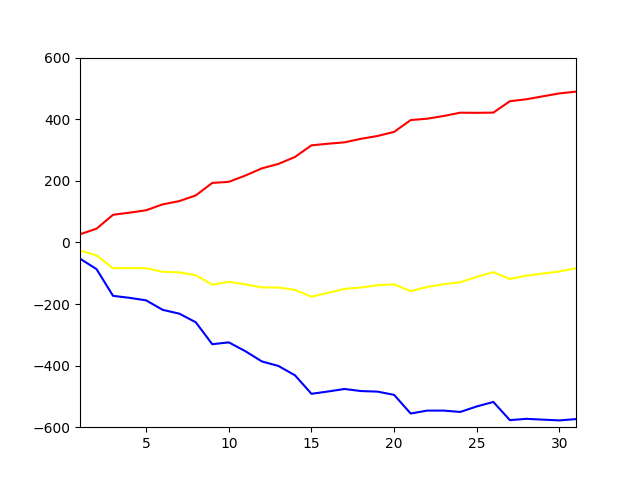
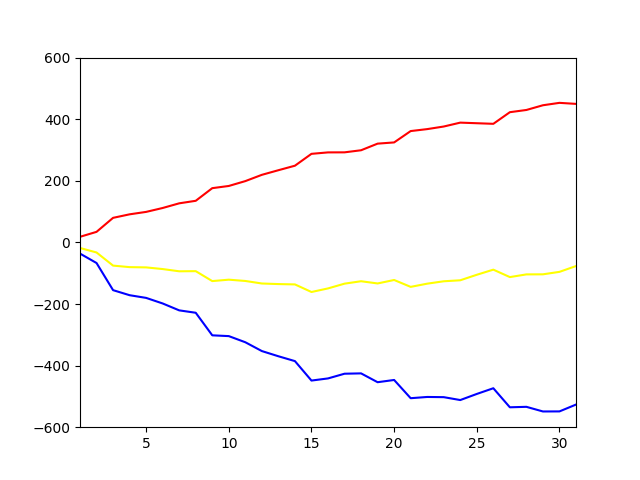
何パターンか作成

diff --git a/sim5/sim5.py b/sim5/sim5.py
@@ -1,0 +1,92 @@
+#pacerunning追加のシミュレーション
+import math
+import random
+from turtle import color
+import pandas as pd
+import matplotlib.pyplot as plt
+road=1.1
+wether=1
+day_length=31
+au=[]
+x=[]
+distance=[]
+trimp=[]
+fig=[]
+fit=[]
+par=[]
+menu=[]
+a=4
+b=7
+for i in range(day_length):
+  x.append(i+1)
+  if (i+1)==a:
+    a+=7
+    sub=random.randrange(1,3)
+    if sub==1:
+      menu.append('12km_pacerunnning')
+      au.append(3.5)
+      distance.append(12)
+    else:
+      menu.append('10km_pacerunnning')
+      au.append(4)
+      distance.append(10)
+  elif (i+1)==b:
+    b+=7    
+    sub=random.randrange(1,3)
+    if sub==1:
+      menu.append('1000m_interval×5')
+      au.append(5)
+      distance.append(5)
+    else:
+      menu.append('2000m_interval×5')
+      au.append(4.5)
+      distance.append(10)
+  elif (i==(a-7) or i==(b-7))and i!=0:
+    menu.append('OFF')
+    au.append(0)
+    distance.append(0)
+  else:
+    menu.append('jog')  
+    distance.append(random.randrange(6,20))
+    sub=random.randrange(1,3)
+    if sub==1:
+      au.append(1)
+    else:
+      au.append(1.5)
+
+for i in range(day_length):
+  trimp.append(round(au[i]*distance[i]*road*wether,3))
+
+fig.append(trimp[0]*2)
+fit.append(trimp[0])
+par.append(fit[0]-fig[0])
+for i in range(1,day_length):
+  fig.append(2*trimp[i]+fig[i-1]*math.exp(-1/15))
+  fit.append(trimp[i]+fit[i-1]*math.exp(-1/45))
+  par.append(fit[i]-fig[i])
+for i in range(day_length):  
+  fig[i]*=-1  
+
+
+'''
+print(au)
+print(distance)
+print(fit)
+print(fig)
+print(par)
+'''
+file_df=pd.DataFrame(zip(menu,au,distance,fit,fig,par),columns=['menu','au','distance','fitness','fatigue','performance'])
+figure=plt.figure()
+print(file_df)
+file_df.to_excel('./sim5.xlsx')
+plt.plot(x,fit,color='red')
+plt.plot(x,fig,color='blue')
+plt.plot(x,par,color='yellow')
+plt.xlim(1,day_length)
+plt.ylim(-800,800)
+#plt.show()
+
+figure.savefig("./sim5.png")
+
+
+

diff --git a/sim4/sim4.py b/sim4/sim4.py
@@ -1,0 +1,88 @@
+#pacerunning追加のシミュレーション
+import math
+import random
+from turtle import color
+import pandas as pd
+import matplotlib.pyplot as plt
+road=1.1
+wether=1
+day_length=31
+au=[]
+x=[]
+distance=[]
+trimp=[]
+fig=[]
+fit=[]
+par=[]
+menu=[]
+a=4
+b=7
+for i in range(day_length):
+  x.append(i+1)
+  if (i+1)==a:
+    a+=7
+    print(a)
+    sub=random.randrange(1,3)
+    if sub==1:
+      menu.append('12km_pacerunnning')
+      au.append(3.5)
+      distance.append(12)
+    else:
+      menu.append('10km_pacerunnning')
+      au.append(4)
+      distance.append(10)
+  elif (i+1)%7==0:
+    sub=random.randrange(1,3)
+    if sub==1:
+      menu.append('1000m_interval×5')
+      au.append(5)
+      distance.append(5)
+    else:
+      menu.append('2000m_interval×5')
+      au.append(4.5)
+      distance.append(10)
+  else:
+    menu.append('jog')  
+    distance.append(random.randrange(6,20))
+    sub=random.randrange(1,3)
+    if sub==1:
+      au.append(1)
+    else:
+      au.append(1.5)
+
+for i in range(day_length):
+  trimp.append(round(au[i]*distance[i]*road*wether,3))
+
+fig.append(trimp[0]*2)
+fit.append(trimp[0])
+par.append(fit[0]-fig[0])
+for i in range(1,day_length):
+  fig.append(2*trimp[i]+fig[i-1]*math.exp(-1/15))
+  fit.append(trimp[i]+fit[i-1]*math.exp(-1/45))
+  par.append(fit[i]-fig[i])
+for i in range(day_length):  
+  fig[i]*=-1  
+
+
+'''
+print(au)
+print(distance)
+print(fit)
+print(fig)
+print(par)
+'''
+file_df=pd.DataFrame(zip(menu,au,distance,fit,fig,par),columns=['menu','au','distance','fitness','fatigue','performance'])
+figure=plt.figure()
+print(file_df)
+file_df.to_excel('./sim4.xlsx')
+plt.plot(x,fit,color='red')
+plt.plot(x,fig,color='blue')
+plt.plot(x,par,color='yellow')
+plt.xlim(1,day_length)
+plt.ylim(-800,800)
+#plt.show()
+
+figure.savefig("./sim4.png")
+
+
+

diff --git a/sim3/sim3.py b/sim3/sim3.py
@@ -1,0 +1,85 @@
+#pacerunning追加のシミュレーション
+import math
+import random
+from turtle import color
+import pandas as pd
+import matplotlib.pyplot as plt
+road=1.1
+wether=1
+day_length=31
+au=[]
+x=[]
+distance=[]
+trimp=[]
+fig=[]
+fit=[]
+par=[]
+menu=[]
+
+for i in range(day_length):
+  x.append(i+1)
+  if (i+1)%3==0 and (i+1)%6!=0:
+    sub=random.randrange(1,3)
+    if sub==1:
+      menu.append('12km_pacerunnning')
+      au.append(3.5)
+      distance.append(12)
+    else:
+      menu.append('10km_pacerunnning')
+      au.append(4)
+      distance.append(10)
+  elif (i+1)%6==0:
+    sub=random.randrange(1,3)
+    if sub==1:
+      menu.append('1000m_interval×5')
+      au.append(5)
+      distance.append(5)
+    else:
+      menu.append('2000m_interval×3')
+      au.append(4.5)
+      distance.append(10)
+  else:
+    menu.append('jog')  
+    distance.append(random.randrange(6,20))
+    sub=random.randrange(1,3)
+    if sub==1:
+      au.append(1)
+    else:
+      au.append(1.5)
+
+for i in range(day_length):
+  trimp.append(round(au[i]*distance[i]*road*wether,3))
+
+fig.append(trimp[0]*2)
+fit.append(trimp[0])
+par.append(fit[0]-fig[0])
+for i in range(1,day_length):
+  fig.append(2*trimp[i]+fig[i-1]*math.exp(-1/15))
+  fit.append(trimp[i]+fit[i-1]*math.exp(-1/45))
+  par.append(fit[i]-fig[i])
+for i in range(day_length):  
+  fig[i]*=-1  
+
+
+'''
+print(au)
+print(distance)
+print(fit)
+print(fig)
+print(par)
+'''
+file_df=pd.DataFrame(zip(menu,au,distance,fit,fig,par),columns=['menu','au','distance','fitness','fatigue','performance'])
+figure=plt.figure()
+print(file_df)
+file_df.to_excel('./sim3.xlsx')
+plt.plot(x,fit,color='red')
+plt.plot(x,fig,color='blue')
+plt.plot(x,par,color='yellow')
+plt.xlim(1,day_length)
+plt.ylim(-800,800)
+#plt.show()
+
+figure.savefig("./sim3.png")
+
+
+
